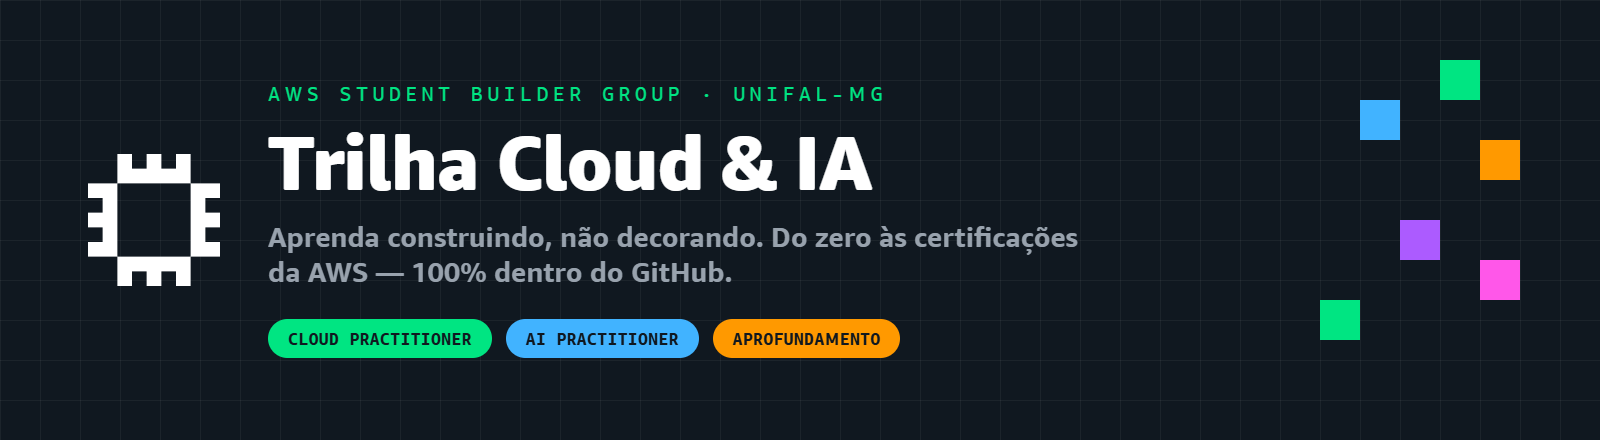
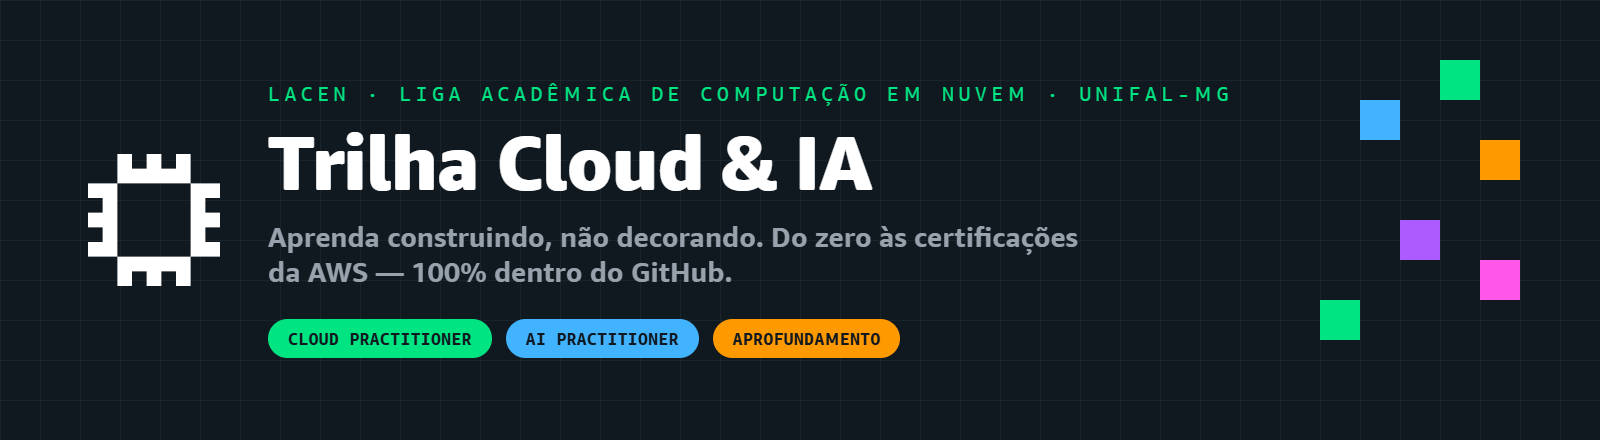
ajuste dos checkpoints, modulos, etc

Changed region(s): [[0.4375, 0.1773, 0.7812, 0.2364], [0.1562, 0.1773, 0.4062, 0.2364]]

diff --git a/README.md b/README.md
@@ -1,6 +1,6 @@
 <div align="center">
 
-<img src="./assets/hero.png" alt="Trilha Cloud · Liga Acadêmica SBG · UNIFAL-MG" width="100%" />
+<a href="./GUIA-DO-ALUNO.md"><img src="./assets/hero.png" alt="Trilha Cloud · Liga Acadêmica de Computação em Nuvem · UNIFAL-MG" width="100%" /></a>
 
 <br><br>
 
@@ -10,7 +10,7 @@
 
 <br><br>
 
-![Liga Acadêmica SBG](https://img.shields.io/badge/Liga_Acad%C3%AAmica-SBG_UNIFAL--MG-00E582?style=for-the-badge&labelColor=12181F)
+![LACEN](https://img.shields.io/badge/LACEN-UNIFAL--MG-00E582?style=for-the-badge&labelColor=12181F)
 ![Trilha Cloud](https://img.shields.io/badge/Trilha-Computa%C3%A7%C3%A3o_em_Nuvem-42B4FF?style=for-the-badge&labelColor=12181F)
 ![Trilha IA](https://img.shields.io/badge/Trilha-Intelig%C3%AAncia_Artificial-AD5CFF?style=for-the-badge&labelColor=12181F)
 [![CC BY-NC-SA 4.0](https://img.shields.io/badge/License-CC%20BY--NC--SA%204.0-yellow?style=for-the-badge&labelColor=12181F)](LICENSE.md)
@@ -21,10 +21,14 @@
 
 ## 👋 Bem-vindo(a) à Liga!
 
-Este repositório é o **ambiente de aprendizado** da **Liga Acadêmica de Computação em Nuvem da UNIFAL-MG** — vinculada ao programa **AWS Student Builder Group**. Aqui você aprende **computação em nuvem e inteligência artificial do zero**, no seu ritmo, com aulas didáticas, diagramas, quizzes interativos e prática guiada.
+Este repositório é o **ambiente de aprendizado** da **Liga Acadêmica de Computação em Nuvem da UNIFAL-MG** — a **Liga Acadêmica de Computação em Nuvem**. Aqui você aprende **computação em nuvem e inteligência artificial do zero**, no seu ritmo, com aulas didáticas, diagramas, quizzes interativos e prática guiada.
 
 > [!IMPORTANT]
 > 🧭 **É a sua primeira vez aqui?** Comece pelo **[📖 Guia do Aluno](./GUIA-DO-ALUNO.md)** — ele explica todo o fluxo de aprendizado.
+
+
+> [!NOTE]
+> **De onde vem este material.** Todo o conteúdo deste repositório foi escrito por **Melissa Hollanda de Oliveira Alves**, presidente da LACEN, **enquanto ela cursava a capacitação gratuita em computação em nuvem que a Amazon oferece aos líderes estudantis**. Cada módulo é a tradução — em português e em linguagem de estudante — do que ela aprendeu nessa formação, para que ninguém precise ocupar um cargo de liderança para ter acesso a esse conhecimento. 💜
 
 > [!TIP]
 > Todo o aprendizado acontece **aqui dentro do GitHub**. Você **não precisa** de conta pessoal da AWS nem de cartão de crédito — a prática usa ambientes prontos (Builder Labs, Skill Builder, SimuLearn). 🎉
@@ -35,9 +39,18 @@ Este repositório é o **ambiente de aprendizado** da **Liga Acadêmica de Compu
 
 Pensamos tudo para ser **intuitivo**. São três trilhas de estudo e alguns espaços de apoio:
 
-<div align="center">
-  <img src="./assets/mapa-do-repositorio.png" alt="Mapa do repositório" width="100%" />
-</div>
+<table>
+<tr>
+<td width="33%"><a href="./certificacao-cloud/"><img src="./assets/card-cloud.png" alt="Certificação Cloud Practitioner" width="100%" /></a></td>
+<td width="33%"><a href="./certificacao-ia/"><img src="./assets/card-ia.png" alt="Certificação AI Practitioner" width="100%" /></a></td>
+<td width="33%"><a href="./aprofundamento/"><img src="./assets/card-aprofundamento.png" alt="Aprendizado Aprofundado" width="100%" /></a></td>
+</tr>
+<tr>
+<td width="33%"><a href="./blog/"><img src="./assets/card-blog.png" alt="Novidades Tech" width="100%" /></a></td>
+<td width="33%"><a href="./eventos/"><img src="./assets/card-eventos.png" alt="Eventos" width="100%" /></a></td>
+<td width="33%"><a href="./sobre/"><img src="./assets/card-sobre.png" alt="Sobre a Liga" width="100%" /></a></td>
+</tr>
+</table>
 
 | Espaço | O que é |
 |:--|:--|
@@ -107,7 +120,7 @@ Doze módulos técnicos aprofundados, divididos exatamente como o curso oficial 
 ## 🎮 Como estudar (100% interativo)
 
 <div align="center">
-  <img src="./assets/como-estudar.png" alt="Como estudar: leia, faça o quiz, marque o checkpoint, converse" width="100%" />
+  <a href="./GUIA-DO-ALUNO.md"><img src="./assets/como-estudar.png" alt="Como estudar: leia, faça o quiz, marque o checkpoint, converse" width="100%" /></a>
 </div>
 
 <table>
@@ -138,10 +151,10 @@ Tire dúvidas na aba **[Issues](https://github.com/melissaalves-stack/awscloudfo
 ## 📊 Acompanhe sua evolução
 
 <div align="center">
-  <img src="./assets/progresso.png" alt="Progresso por trilha" width="100%" />
+  <a href="https://github.com/melissaalves-stack/awscloudfoundations/issues/new?template=checkpoint-de-modulo.yml"><img src="./assets/progresso.png" alt="Progresso por trilha" width="100%" /></a>
 </div>
 
-Cada módulo concluído vira um **checkpoint**. Abra uma Issue com o template [Checkpoint de Módulo](https://github.com/melissaalves-stack/awscloudfoundations/issues/new?template=checkpoint-de-modulo.yml) e acompanhe sua trilha crescendo.
+Cada módulo concluído vira um **checkpoint**. Abra uma Issue com o template [Checkpoint de Módulo](https://github.com/melissaalves-stack/awscloudfoundations/issues/new?template=checkpoint-de-modulo.yml) — em segundos um robô responde na própria Issue com a sua barra de progresso atualizada e soma você ao **[📊 Progresso da turma](./PROGRESSO.md)**.
 
 ---
 
@@ -158,7 +171,7 @@ Cada módulo concluído vira um **checkpoint**. Abra uma Issue com o template [C
 
 ## 🛡 Autoria e Licença
 
-Este repositório e todo o seu conteúdo educacional foram desenvolvidos por **Melissa Hollanda de Oliveira Alves** — fundadora e presidente da Liga — em conjunto com a **Liga Acadêmica SBG · UNIFAL-MG**. Saiba mais na página **[Sobre a Liga](./sobre/)**.
+Este repositório e todo o seu conteúdo educacional foram desenvolvidos por **Melissa Hollanda de Oliveira Alves** — fundadora e presidente da Liga — em conjunto com a **LACEN · Liga Acadêmica de Computação em Nuvem · UNIFAL-MG**. Saiba mais na página **[Sobre a Liga](./sobre/)**.
 
 Este material está protegido sob a licença **[Creative Commons CC BY-NC-SA 4.0](LICENSE.md)**:
 - 👤 **Atribuição:** É obrigatório dar os devidos créditos à autora e à Liga.
@@ -175,7 +188,7 @@ Este material está protegido sob a licença **[Creative Commons CC BY-NC-SA 4.0
 
 <img src="./assets/logo.png" width="52" />
 
-**Liga Acadêmica SBG · UNIFAL-MG**
+**LACEN · Liga Acadêmica de Computação em Nuvem · UNIFAL-MG**
 <sub>Alfenas · Minas Gerais · Feito com 🧡 pela comunidade · Bora construir! 🚀</sub>
 
 </div>

diff --git a/sobre/README.md b/sobre/README.md
@@ -4,20 +4,34 @@
 
 <div align="center">
 
+<a href="https://readme-typing-svg.demolab.com">
+  <img src="https://readme-typing-svg.demolab.com?font=JetBrains+Mono&weight=600&size=20&duration=3000&pause=800&color=FFFFFF&center=true&vCenter=true&width=700&lines=Aprenda%20construindo%2C%20n%C3%A3o%20decorando.%3BUma%20liga%20feita%20por%20estudantes%2C%20para%20estudantes." alt="" />
+</a>
+
+</div>
+
+<div align="center">
+
 # 💜 Sobre a Liga
 
 <img src="../assets/logo.png" width="72" />
 
-### Liga Acadêmica de Computação em Nuvem · SBG · UNIFAL-MG
+### LACEN · Liga Acadêmica de Computação em Nuvem
+<sub>UNIFAL-MG</sub>
 <sub>Alfenas · Minas Gerais · Brasil</sub>
 
 </div>
 
 ---
 
+> [!NOTE]
+> **De onde vem este material.** Todo o conteúdo deste repositório foi escrito por **Melissa Hollanda de Oliveira Alves**, presidente da LACEN, **enquanto ela cursava a capacitação gratuita em computação em nuvem que a Amazon oferece aos líderes estudantis**. Cada módulo é a tradução — em português e em linguagem de estudante — do que ela aprendeu nessa formação, para que ninguém precise ocupar um cargo de liderança para ter acesso a esse conhecimento. 💜
+
+---
+
 ## 🌩 Quem somos
 
-A **Liga Acadêmica de Computação em Nuvem** da **Universidade Federal de Alfenas (UNIFAL-MG)** é uma comunidade estudantil vinculada ao programa **AWS Student Builder Group (SBG)**. Nascemos com uma missão simples e ambiciosa: **democratizar o acesso ao conhecimento em computação em nuvem e inteligência artificial**, formando uma nova geração de construtores.
+A **Liga Acadêmica de Computação em Nuvem** da **Universidade Federal de Alfenas (UNIFAL-MG)** é uma comunidade estudantil de computação em nuvem. Nascemos com uma missão simples e ambiciosa: **democratizar o acesso ao conhecimento em computação em nuvem e inteligência artificial**, formando uma nova geração de construtores.
 
 Aqui, ninguém precisa de dinheiro, cartão de crédito ou experiência prévia para começar. Precisa só de **vontade de aprender construindo**.
 
@@ -39,26 +53,26 @@ Aqui, ninguém precisa de dinheiro, cartão de crédito ou experiência prévia 
 
 <table>
 <tr>
-<td width="35%" valign="top" align="center">
+<td width="42%" valign="top" align="center">
 
-<img src="../assets/melissa.jpeg" width="220" style="border-radius:12px" alt="Melissa Hollanda de Oliveira Alves" />
+<img src="../assets/melissa.jpeg" alt="Melissa Hollanda de Oliveira Alves" width="100%" />
 
 <br>
 
 **Melissa Hollanda de Oliveira Alves**
 
 </td>
-<td width="65%" valign="top">
+<td width="58%" valign="top">
 
 Estudante de **Ciência da Computação** na **Universidade Federal de Alfenas (UNIFAL-MG)**, Melissa é a **fundadora e presidente** da Liga Acadêmica de Computação em Nuvem.
 
-Como **AWS Student Builder Group Leader**, ela lidera a comunidade, produz o conteúdo educacional das trilhas e conduz a capacitação dos membros. Também atua como **Google Student Ambassador 2026**, construindo pontes entre estudantes e as maiores plataformas de tecnologia do mundo.
+Como **líder da Liga Acadêmica de Computação em Nuvem**, ela lidera a comunidade, produz o conteúdo educacional das trilhas e conduz a capacitação dos membros. Também atua como **Google Student Ambassador 2026**, construindo pontes entre estudantes e as maiores plataformas de tecnologia do mundo.
 
 Toda a trilha que você encontra neste repositório — incluindo o **conteúdo aprofundado da capacitação oficial de líderes** — foi construída e disponibilizada por ela, para que ninguém precise começar do zero sozinho.
 
 **Cargos e títulos:**
 - 👑 Fundadora e Presidente · Liga Acadêmica de Computação em Nuvem (UNIFAL-MG)
-- ☁ AWS Student Builder Group Leader
+- ☁ Líder da Liga Acadêmica de Computação em Nuvem
 - 🎓 Google Student Ambassador 2026
 - 💻 Graduanda em Ciência da Computação · UNIFAL-MG
 
@@ -97,7 +111,7 @@ Depois, siga o **[📖 Guia do Aluno](../GUIA-DO-ALUNO.md)** e comece por qualqu
 
 ### 🌐 [Site oficial](https://awsbuildersunifal.vercel.app) &nbsp;·&nbsp; 📸 [Instagram](https://www.instagram.com/awsbuilders.unifal) &nbsp;·&nbsp; 📅 [Meetup](https://www.meetup.com/aws-sbg-at-federal-university-of-alfenas)
 
-**Liga Acadêmica SBG · UNIFAL-MG**
+**LACEN · Liga Acadêmica de Computação em Nuvem · UNIFAL-MG**
 <sub>Feito com 🧡 pela comunidade · Bora construir! 🚀</sub>
 
 <br>

diff --git a/LICENSE.md b/LICENSE.md
@@ -1,13 +1,13 @@
 # Licença Creative Commons — Atribuição-NãoComercial-CompartilhaIgual 4.0 Internacional (CC BY-NC-SA 4.0)
 
-Este repositório e todo o seu conteúdo educacional (guias, módulos, textos, exercícios e imagens) são de autoria de **Melissa Alves** em conjunto com a **Liga Acadêmica SBG — UNIFAL-MG**.
+Este repositório e todo o seu conteúdo educacional (guias, módulos, textos, exercícios e imagens) são de autoria de **Melissa Alves** em conjunto com a **Liga Acadêmica de Computação em Nuvem — UNIFAL-MG**.
 
 Você tem o direito de:
 - **Compartilhar:** copiar e redistribuir o material em qualquer suporte ou formato.
 - **Adaptar:** remixar, transformar e criar a partir do material.
 
 Sob as seguintes condições:
-- **Atribuição (BY):** Você deve dar o crédito apropriado (citando explicitamente **Melissa Alves** e a **Liga Acadêmica SBG — UNIFAL-MG**), prover um link para esta licença e indicar se mudanças foram feitas.
+- **Atribuição (BY):** Você deve dar o crédito apropriado (citando explicitamente **Melissa Alves** e a **Liga Acadêmica de Computação em Nuvem — UNIFAL-MG**), prover um link para esta licença e indicar se mudanças foram feitas.
 - **Não Comercial (NC):** Você **NÃO** pode usar o material para fins comerciais (não pode vender, monetizar ou lucrar com o conteúdo).
 - **Compartilha Igual (SA):** Se você remixar, transformar ou criar a partir do material, tem que distribuir as suas contribuições sob a mesma licença que o original.
 

diff --git a/aprofundamento/README.md b/aprofundamento/README.md
@@ -4,11 +4,24 @@
 
 <div align="center">
 
+<a href="https://readme-typing-svg.demolab.com">
+  <img src="https://readme-typing-svg.demolab.com?font=JetBrains+Mono&weight=600&size=20&duration=3000&pause=800&color=FF9900&center=true&vCenter=true&width=700&lines=O%20conte%C3%BAdo%20da%20capacita%C3%A7%C3%A3o%20de%20l%C3%ADderes.%3B12%20m%C3%B3dulos%20t%C3%A9cnicos%2C%20abertos%20a%20todos.%3BAprenda%20como%20quem%20ensina%20aprendeu." alt="" />
+</a>
+
+</div>
+
+<div align="center">
+
 # 🔬 Trilha · Aprendizado Aprofundado
 
 <img src="../assets/roadmap-aprofundamento.png" alt="Roadmap do Aprendizado Aprofundado" width="100%" />
 
 </div>
+
+---
+
+> [!NOTE]
+> **De onde vem este material.** Todo o conteúdo deste repositório foi escrito por **Melissa Hollanda de Oliveira Alves**, presidente da LACEN, **enquanto ela cursava a capacitação gratuita em computação em nuvem que a Amazon oferece aos líderes estudantis**. Cada módulo é a tradução — em português e em linguagem de estudante — do que ela aprendeu nessa formação, para que ninguém precise ocupar um cargo de liderança para ter acesso a esse conhecimento. 💜
 
 ---
 

diff --git a/certificacao-cloud/dominio-3-tecnologia-e-servicos/11-redes-vpc-dns-cloudfront.md b/certificacao-cloud/dominio-3-tecnologia-e-servicos/11-redes-vpc-dns-cloudfront.md
@@ -74,7 +74,7 @@ flowchart TD
 
 ### 4. Route 53 — o DNS da AWS
 
-O **Amazon Route 53** é o serviço de **DNS**: ele traduz nomes de domínio (como `ligasbg.com.br`) no endereço IP do servidor certo. Também registra domínios e faz roteamento inteligente (por latência, geografia, saúde do servidor).
+O **Amazon Route 53** é o serviço de **DNS**: ele traduz nomes de domínio (como `lacen-unifal.com.br`) no endereço IP do servidor certo. Também registra domínios e faz roteamento inteligente (por latência, geografia, saúde do servidor).
 
 > [!TIP]
 > DNS é a "agenda de contatos" da internet: você digita um nome, e o DNS descobre o "número" (IP) para ligar. O **Route 53** é a agenda da AWS. (O nome vem da porta 53, usada pelo DNS.)

diff --git a/certificacao-cloud/README.md b/certificacao-cloud/README.md
@@ -4,6 +4,14 @@
 
 <div align="center">
 
+<a href="https://readme-typing-svg.demolab.com">
+  <img src="https://readme-typing-svg.demolab.com?font=JetBrains+Mono&weight=600&size=20&duration=3000&pause=800&color=00E582&center=true&vCenter=true&width=700&lines=Do%20zero%20%C3%A0%20AWS%20Cloud%20Practitioner.%3B4%20dom%C3%ADnios%20%C2%B7%2016%20m%C3%B3dulos%20%C2%B7%20quizzes.%3BSem%20cart%C3%A3o%20de%20cr%C3%A9dito.%20Sem%20enrola%C3%A7%C3%A3o." alt="" />
+</a>
+
+</div>
+
+<div align="center">
+
 # 🎓 Trilha · Certificação AWS Cloud Practitioner (CLF-C02)
 
 <img src="../assets/roadmap-certificacao-cloud.png" alt="Roadmap da Certificação Cloud Practitioner" width="100%" />

diff --git a/certificacao-ia/README.md b/certificacao-ia/README.md
@@ -4,6 +4,14 @@
 
 <div align="center">
 
+<a href="https://readme-typing-svg.demolab.com">
+  <img src="https://readme-typing-svg.demolab.com?font=JetBrains+Mono&weight=600&size=20&duration=3000&pause=800&color=41B3FF&center=true&vCenter=true&width=700&lines=Do%20zero%20%C3%A0%20AWS%20AI%20Practitioner.%3BBedrock%2C%20RAG%2C%20prompts%20e%20IA%20respons%C3%A1vel.%3B5%20dom%C3%ADnios%20oficiais%20da%20prova." alt="" />
+</a>
+
+</div>
+
+<div align="center">
+
 # 🤖 Trilha · Certificação AWS AI Practitioner (AIF-C01)
 
 <img src="../assets/roadmap-certificacao-ia.png" alt="Roadmap da Certificação AI Practitioner" width="100%" />

diff --git a/eventos/README.md b/eventos/README.md
@@ -4,11 +4,19 @@
 
 <div align="center">
 
+<a href="https://readme-typing-svg.demolab.com">
+  <img src="https://readme-typing-svg.demolab.com?font=JetBrains+Mono&weight=600&size=20&duration=3000&pause=800&color=FF57E9&center=true&vCenter=true&width=700&lines=Community%20Day%2C%20hackathon%20e%20encontros.%3BA%20Liga%20acontece%20pessoalmente%20tamb%C3%A9m." alt="" />
+</a>
+
+</div>
+
+<div align="center">
+
 # 🎉 Eventos da Liga
 
 ### Registros e memórias dos nossos encontros
 
-<sub>Liga Acadêmica SBG · UNIFAL-MG</sub>
+<sub>LACEN · Liga Acadêmica de Computação em Nuvem · UNIFAL-MG</sub>
 
 </div>
 

diff --git a/blog/README.md b/blog/README.md
@@ -4,9 +4,17 @@
 
 <div align="center">
 
+<a href="https://readme-typing-svg.demolab.com">
+  <img src="https://readme-typing-svg.demolab.com?font=JetBrains+Mono&weight=600&size=20&duration=3000&pause=800&color=AC5BFF&center=true&vCenter=true&width=640&lines=Programas%2C%20bolsas%20e%20oportunidades.%3BDireto%20do%20mundo%20Cloud%20%26%20IA." alt="" />
+</a>
+
+</div>
+
+<div align="center">
+
 # 📰 Novidades Tech
 
-### O "blog" da Liga Acadêmica SBG · UNIFAL-MG
+### O "blog" da LACEN · UNIFAL-MG
 
 <sub>Novidades, programas, oportunidades e tudo que rola no mundo Cloud & IA. 🚀</sub>
 

diff --git a/GUIA-DO-ALUNO.md b/GUIA-DO-ALUNO.md
@@ -4,7 +4,7 @@
 
 # 🎓 Guia do Aluno
 
-Bem-vindo(a) à trilha de aprendizado da **Liga Acadêmica SBG — UNIFAL-MG**! Todo o aprendizado acontece **aqui dentro do GitHub**. Este guia explica como usar o repositório do jeito certo.
+Bem-vindo(a) à trilha de aprendizado da **Liga Acadêmica de Computação em Nuvem — UNIFAL-MG**! Todo o aprendizado acontece **aqui dentro do GitHub**. Este guia explica como usar o repositório do jeito certo.
 
 ---
 

diff --git a/PROGRESSO.md b/PROGRESSO.md
@@ -1,0 +1,21 @@
+<div align="center">
+
+<img src="./assets/progresso.png" alt="Progresso das trilhas" width="100%" />
+
+# 📊 Progresso da turma
+
+<sub>Atualizado automaticamente a cada checkpoint registrado</sub>
+
+</div>
+
+---
+
+Ninguém registrou checkpoint ainda. Seja a primeira pessoa: [abrir checkpoint](../../issues/new?template=checkpoint-de-modulo.yml) 🚀
+
+---
+
+<div align="center">
+
+🏠 [Voltar ao início](./README.md)
+
+</div>

diff --git a/eventos/community-day-aws/README.md b/eventos/community-day-aws/README.md
@@ -2,7 +2,7 @@
 
 # 🌎 AWS Community Day
 
-<sub>Liga Acadêmica SBG · UNIFAL-MG</sub>
+<sub>LACEN · Liga Acadêmica de Computação em Nuvem · UNIFAL-MG</sub>
 
 </div>
 
